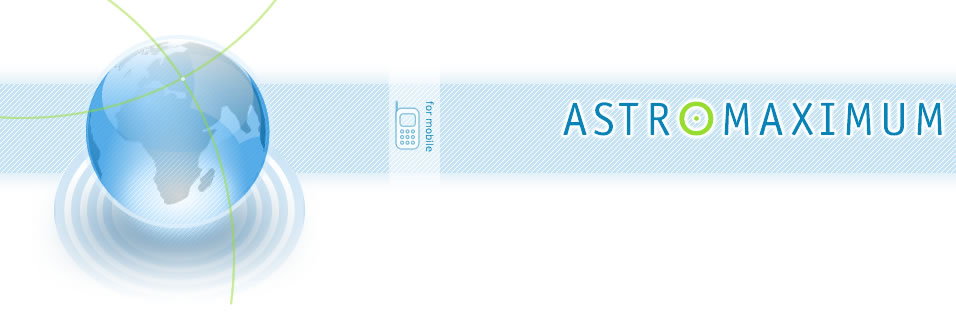
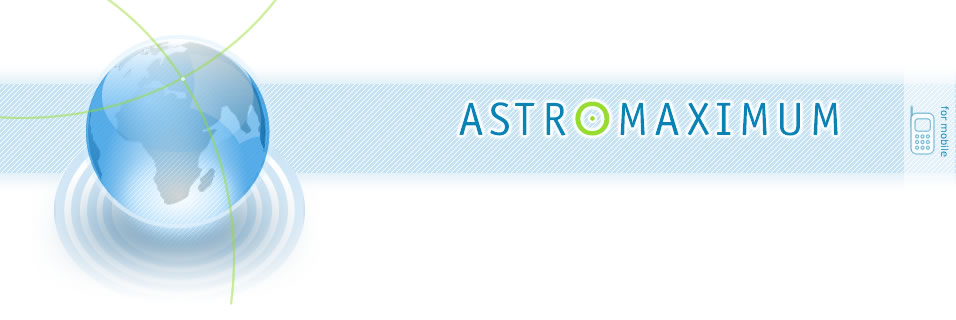
fix4 integrated, pages reformatted

Changed region(s): [[0.3944, 0.25, 1.0, 0.5625]]

diff --git a/Astromaximum/site/astro.css b/Astromaximum/site/astro.css
@@ -1,4 +1,4 @@
-/*общие*/
+/*общие*/
 html, body {
 	padding: 0;
 	margin: 0;
@@ -13,7 +13,7 @@ a {
 	color: rgb(5,106,150);
 }
 a:hover {
-	text-decoration: underline;
+	font-weight: bold;
 }
 h1, h2, h3, h4 {
 	font-family: Arial, Helvetica, sans-serif;
@@ -22,12 +22,22 @@ h1, h2, h3, h4 {
 table, img {
 	border: none;
 }
+table {
+	width: 90%;
+}
 th {
+	width: 222px;
+	vertical-align: top;
 	background-color: rgb(197,225,239);
 	padding: 7px;
 	color: rgb(33,95,124);
+	white-space:nowrap;
+}
+th b {
+	color: rgb(0,0,0);
 }
 td {
+	vertical-align: top;
 	background-color: rgb(239,247,250);
 	padding: 7px;
 	color: rgb(33,95,124);
@@ -35,9 +45,26 @@ td {
 input {
 	border: 1px  solid rgb(51,102,153);
 	height: 15px;
+	width: 69px;
 }
 ul {
 	list-style-image: url('i/bul.gif');
+}
+.bums {
+	margin-top: 13px;
+}
+.bums input {
+	border: none;
+	height: 26px;
+	width: 85px;
+	font-size: 10px;
+	background: url('i/bottom_.jpg');
+}
+.lb {
+	width: 100%;
+	font-size: 10px;
+	font-family: Verdana;
+	height: 400pt;
 }
 /*дизайн*/
 #globe {
@@ -48,18 +75,17 @@ ul {
 	float: left;
 	background: url('i/fon.jpg') repeat-x 956px top;
 }
-
 #logoText {
 	position: absolute;
 	top: 151px;
-	left: 565px;
+	left: 460px;
 	color: rgb(32,95,123);
 	font: 13px  bolder;
 }
 #menu {
 	position: absolute;
 	top: 10px;
-	left: 576px;
+	left: 469px;
 }
 #lang {
 	position: absolute;
@@ -70,7 +96,7 @@ ul {
 #demo {
 	position: absolute;
 	top: 197px;
-	left: 370px;
+	left: 345px;
 	width: 306px;
 	height: 91px;
 	background: url('i/button.jpg') no-repeat center center;
@@ -97,12 +123,9 @@ ul {
 	width: 246px;
 	float: left;
 }
-#leftColumn input{
-	width: 69px;
-}
-#leftColumn h6 {
+#lang p {
 	font-size: 9px;
-	color: rgb(129,129,129);
+	color: #69B6EB;
 }
 #leftColumn h5 {
 	font-size: 11px;
@@ -115,8 +138,8 @@ ul {
 	margin: 5px 0px 5px 0px;
 }
 #leftColumn img {
-	height: 46px;
-	width: 46px;
+	height: 26px;
+	width: 26px;
 	float: left;
 	margin: 7px 7px 7px 0px;
 }
@@ -127,23 +150,12 @@ ul {
 #leftColumn p a:hover b {
 	color: rgb(96,96,96);
 }
-#loginframe {
-	position: absolute;
-	border:solid;
-	visibility:hidden;
-	top: 197px;
-	left: 370px;
-	width: 306px;
-	height: 91px;
-	background-color: rgb(255,0,0);
-	font: bold 18px bold Arial Black;
-	color: rgb(33,95,124);
-	text-align: center;
-	padding-top: 42px;
+.gogo {
+	padding: 11px 0px 0px 33px;
 }
 /*основной текст*/
 #content {
-	margin-left: 388px;
+	margin-left: 360px;
 	padding-right: 18px;
 }
 /*подвал*/
@@ -156,26 +168,4 @@ ul {
 }
 #bottom p {
 	margin: 47px 47px 0 0;
-}
-/* выбор городов */
-#city th {
-	vertical-align: top;
-	padding-top: 4px;
-	padding-bottom: 2px;
-}
-#city td {
-	padding: 0px;
-}
-
-#city select{
-	width: 100%;
-	font-size: 10px;
-	font-family: Verdana;
-	height: 400pt;
-}
-.lbbtn {
-	width: auto;
-	font-size: 10px;
-	font-family: Verdana;
-	margin: 3px;
 }

diff --git a/Astromaximum/site/mobi/html/dl.php b/Astromaximum/site/mobi/html/dl.php
@@ -87,15 +87,16 @@ function city_del(removeAll){
 
 function check_list(){
 	if(document.getElementById("selcit").length){
-		document.getElementById("Action").value=1;
-		document.forms.namedItem("main").submit();
+		frm=document.forms.namedItem("main");
+		frm.elements.namedItem("Action").value=1;
+		frm.submit();
 	}
 }
 </script>
 <h4>Загрузить модули городов</h4>
 <form method="post" border=1 action="<?php echo $_SERVER['REQUEST_URI']?>" name="main">
-<table id="city" border=1 width=100% cellspacing=0 cellpadding=0>
-<tr><th colspan="4" align="left"><font color=red><?php echo $step++ ?></font>.
+<table class="geo">
+<tr><th><b><?php echo "{$i18['STEP']} ".$step++ ?></b>.
 <select name="y_sel" style="height:auto; width:auto;" onchange="city_del(true)">
 <?php
 $y_now=date("Y");
@@ -107,9 +108,12 @@ for($i=0; $i<3; $i++){
 }
 ?>
 </select>
-</th></tr>
+</th>
+<th style="background-color:rgb(255,255,255)" colspan="2"></th>
+<th style="background-color:rgb(255,255,255)"><?php echo $i18['LOAD_LEFT'] ?> 5</th>
+</tr>
 <tr>
-<th width=11% align=center><font color=red><?php echo $step++ ?></font>. 
+<th><b><?php echo "{$i18['STEP']} ".$step++ ?></b>. 
 <?php
 	echo $i18['H_COUNTRY'];
 // First listbox
@@ -128,11 +132,11 @@ for($i=0; $i<3; $i++){
 			$cur_country=$row[1];
 			$selflag=' selected';
 		}
-		$lb1.="<option value=$row[0]{$selflag}>{$row[1]}\n";
+		$lb1.="<option value=\"$row[0]{$selflag}\">{$row[1]}\n";
 	}
 ?>
 </th>
-<th width=11% align=center><font color=red><?php echo $step++ ?></font>. 
+<th><b><?php echo "{$i18['STEP']} ".$step++ ?></b>. 
 <?php
 	echo $i18['H_STATE'];
 	$stat=sprintf("SELECT DISTINCT states.id, states.name FROM states,".
@@ -150,38 +154,38 @@ for($i=0; $i<3; $i++){
 	}
 	$state_count=mysql_num_rows($sth);
 
-	$lb2.="<option value=0 $selflag>&gt;&gt;".$allst."&lt;&lt;\n";
+	$lb2.="<option value=\"0\" $selflag>&gt;&gt;".$allst."&lt;&lt;\n";
 	while($row = mysql_fetch_row($sth)){
 		$selflag='';
 		if($row[0]==$statenum){
 			$cur_state=$row[1];
 			$selflag=' selected';
 		}
-		$lb2.="<option value=$row[0]$selflag>$row[1]\n";
+		$lb2.="<option value=\"$row[0]\"$selflag>$row[1]\n";
 	}
 	mysql_free_result($sth);
 ?>
 </th>
-<th width=20% align=center><font color=red><?php echo $step++ ?></font>. 	
+<th><b><?php echo "{$i18['STEP']} ".$step++ ?></b>. 	
 <?php echo $i18['H_CITY']?>
-<div align=right>
-<input type=button class="lbbtn" size=9 style="font-family:Verdana" value='<?php echo $i18['ADD_SEL']?> &gt;&gt;' onclick='<?php echo "city_add(\"$cur_country\",\"$cur_state\");" ?>'/>
+<div class="bums">
+<input type=button value='<?php echo $i18['ADD_SEL']?> &gt;&gt;' onclick='<?php echo "city_add(\"$cur_country\",\"$cur_state\");" ?>'/>
 </div></th>
-<th width=20% align=center><font color=red><?php echo $step++ ?></font>.
+<th><nobr><b><?php echo "{$i18['STEP']} ".$step++ ?></b>.
 <?php echo $i18['SEL_CITIES']?>
-<div align="left">
-<input type=button class="lbbtn" size=9 value="&lt;&lt; <?php echo $i18['DEL_SEL']?>" style="font-family:Verdana" onclick="city_del(false);"/><nobr/><input 
-	type=button class="lbbtn" onclick="check_list()" style="font-weight:bold" value="<?php echo $i18['GET_DATA']?>">
+<div class="bums">
+<input type=button value="&lt;&lt; <?php echo $i18['DEL_SEL']?>" onclick="city_del(false);"/>
+<input type=button onclick="check_list()" value="<?php echo $i18['GET_DATA']?>">
 </div>
-</th>
+</nobr></th>
 </tr>
 <tr>
-<td width=20% align=center valign=bottom><!-- 1st listbox -->
+<td><!-- 1st listbox -->
 <select size=34 onchange="showc(item(selectedIndex).value,0);" class=lb>
 <?php echo $lb1 ?>
 </select>
 </td>
-<td width=20% align=center valign=bottom><!-- 2nd listbox -->
+<td><!-- 2nd listbox -->
 <?php
  echo "<select size=34 onchange=\"showc($cnum,item(selectedIndex).value);\" class=lb>";
  echo $lb2
@@ -201,19 +205,17 @@ for($i=0; $i<3; $i++){
 		" ORDER BY cities.name",quote_smart($cnum), $andst, quote_smart($defyear));
 	$sth = mysql_query($stat);
 ?>
-<td align=center valign=bottom>
-<div align=right>
-</div>
+<td>
 <select id=chkcit size=34 multiple class=lb>
 <?php
 	while($row = mysql_fetch_row($sth)){
-		echo "<option value=$row[0]>$row[1]\n";
+		echo "<option value=\"$row[0]\">$row[1]\n";
 	}
 	mysql_free_result($sth);
 ?>
 </select>
 </td>
-<td align=center valign=bottom>
+<td>
 <input type="hidden" name="Action" value=""/>
 <input type="hidden" name="cid" value=""/>
 <input type="hidden" name="stateid" value="0"/>
@@ -223,7 +225,7 @@ for($i=0; $i<3; $i++){
 	$sth=get_selected_cities('sc');
 	if($sth){
 		while($row = mysql_fetch_row($sth)){
-			echo "<option value=$row[0]>$row[1], $row[2]\n";
+			echo "<option value=\"$row[0]\">$row[1], $row[2]\n";
 		}
 	}
 ?>

diff --git a/Astromaximum/site/index.php b/Astromaximum/site/index.php
@@ -29,7 +29,7 @@ if(strcmp($main, 'login')==0){
 		sleep(5);
 		$main='home';
 	}
-	redirect("?$lang_&p=$main");	
+	redirect("?$lang_&amp;p=$main");	
 }
 if(!preg_match("/^[\w_\d]+$/is", $main)){
 	$main='home';
@@ -72,18 +72,20 @@ if(preg_match("/^(demo)$/is", $main)){
 			echo "<b>$lng[$i]</b>";
 		}
 		else{
-			echo "<a href=\"?lang=$lng2&p=$main\">$lng[$i]</a>";
+			echo "<a href=\"?lang=$lng2&amp;p=$main\">$lng[$i]</a>";
 		}
 	}
 ?>
-<br /></div>
+<br />
+<p>GMT <span id="mtime">&nbsp;</span></p>
+</div>
 <div id="menu">
-<a href="?<?php echo $lang_ ?>">главная</a> |  <a href="?<?php echo $lang_ ?>&p=0_0">инструкция</a> |  <?php anchor('buy') ?>купить</a> | <?php anchor('dl') ?>модули городов</a> | <a href="#">контакты</a>
+<a href="?<?php echo $lang_ ?>">главная</a> |  <a href="?<?php echo $lang_ ?>&amp;p=0_0">инструкция</a> |  <?php anchor('buy') ?>купить</a> | <?php anchor('dl') ?>модули городов</a> | <a href="#">контакты</a>
 <?php 
 if(check_access()==0){
-	echo "<p><a href=\"?$lang_&p=db_stats&mode=env\">окружение</a> | "; 
-	echo "<a href=\"?$lang_&p=db_stats&mode=data\">статистика</a> | "; 
-	echo "<a href=\"?$lang_&p=upload\">загрузка городов</a></p>";
+	echo "<p><a href=\"?$lang_&amp;p=db_stats&amp;mode=env\">окружение</a> | "; 
+	echo "<a href=\"?$lang_&amp;p=db_stats&amp;mode=data\">статистика</a> | "; 
+	echo "<a href=\"?$lang_&amp;p=upload\">загрузка городов</a></p>";
 }
 ?> 
 </div>
@@ -92,7 +94,6 @@ if(check_access()==0){
 <div id="buy"><?php anchor('buy') ?>КУПИТЬ &euro;<?php echo $price ?><br />+ <?php echo $city_count ?> модулей городов</a></div>
 
 <div id="leftColumn"> 
-	<h6>GMT <span id="mtime">&nbsp;</span></h6>
 	<script type="text/javascript">
 		function findObj(id) {
 		  return (document.all?document.all[id]:document.getElementById(id));
@@ -124,8 +125,7 @@ if(check_access()==0){
 ?>
 <?php }else{ 
 ?>
-	<div id="loginframe"></div>
-	<form id="flog" action="<?php echo "?lang=$lang&p=login&to=$main" ?>" method="post"> 
+	<form id="flog" action="<?php echo "?lang=$lang&amp;p=login&amp;to=$main" ?>" method="post"> 
 	<input id="ilog" name="login"/> <a href="#">логин</a>  <br /><br />
 	<input id="ipwd" name="pass"/> <a href="#">пароль</a> <br /><br />
 	<a id="aenter" href="javascript:void(0)" onclick="javascript:checklogin()"><strong>вход</strong></a> | <a href="#"><strong>восстановить пароль</strong></a>
@@ -157,7 +157,7 @@ if(check_access()==0){
 			if($chac!=-1 and $chac!=1){
 				include($fn);
 				if(strcmp($main, '0_0')){
-					echo "<p><br/><a href=\"?$lang_&p=0_".$main{0}."\"><strong>назад к теме</strong></a>";
+					echo "<p><br/><a href=\"?$lang_&amp;p=0_".$main{0}."\"><strong>назад к теме</strong></a>";
 				}
 			}
 			else{

diff --git a/Astromaximum/site/mobi/lang.php b/Astromaximum/site/mobi/lang.php
@@ -29,7 +29,7 @@ function lang_load($path){
 
 function anchor($pp){
 	global $lang;
-	echo "<a href=\"?lang=$lang&p=$pp\">";
+	echo "<a href=\"?lang=$lang&amp;p=$pp\">";
 } 
 
 function dload_prompt($str){
@@ -47,7 +47,7 @@ function checkCheckBox(f){
 }
 </script>
 <form action="{$_SERVER['REQUEST_URI']}" method="post" onsubmit="checkCheckBox(this)">
-<input type="checkbox" name="agree"> {$str}<br/><br/>
+<input type="checkbox" name="agree" style="width:auto;"> {$str}<br/><br/>
 <input type="submit" value="OK">
 </form>
 EOF;
